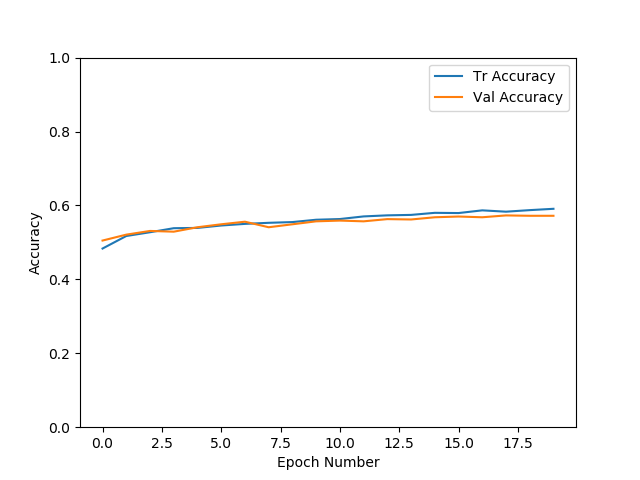
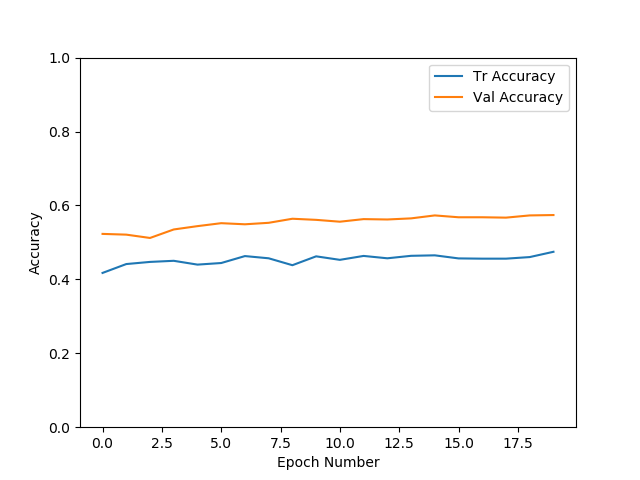
cnn

Changed region(s): [[0.1562, 0.4062, 0.875, 0.5312], [0.1875, 0.5312, 0.8438, 0.5625], [0.8438, 0.5, 0.875, 0.5312]]

diff --git a/pattern-recognition-2019/ex5/code/ex5_NN_3_Images.py b/pattern-recognition-2019/ex5/code/ex5_NN_3_Images.py
@@ -106,20 +106,26 @@ def train_and_validate(myModel, criterion, optimizer, epochs=25):
         valid_acc = 0.0
         for i, (inputs, labels) in enumerate(train_data_loader):
             optimizer.zero_grad()
-            outputs = myModel(inputs.view(-1, inputs.size(0)))
+            if myModel.type == 'cnn':
+                outputs = myModel(inputs)
+            else:
+                outputs = myModel(inputs.view(-1, inputs.size(0)))
             loss = criterion(outputs, labels)
             loss.backward()
             optimizer.step()
             train_loss += loss.item() * inputs.size(0)
             ret, predictions = torch.max(outputs.data, 1)
-            correct_counts = predictions.eq(labels.data.view_as(predictions))
+            correct_counts = predictions[0].eq(labels.data.view_as(predictions))
             acc = torch.mean(correct_counts.type(torch.FloatTensor))
             train_acc += acc.item() * inputs.size(0)
             print("Batch number: {:03d}, Training: Loss: {:.4f}, Accuracy: {:.4f}".format(i, loss.item(), acc.item()))
         with torch.no_grad():
             myModel.eval()
             for j, (inputs, labels) in enumerate(valid_data_loader):
-                outputs = myModel(inputs.view(-1, inputs.size(0)))
+                if myModel.type == 'cnn':
+                    outputs = myModel(inputs)
+                else:
+                    outputs = myModel(inputs.view(-1, inputs.size(0)))
                 loss = criterion(outputs, labels)
                 valid_loss += loss.item() * inputs.size(0)
                 ret, predictions = torch.max(outputs.data, 1)
@@ -151,9 +157,8 @@ def logreg_train_test():
     writeHistoryPlots(logRegHistory, 'logRegModel', 'output/')
 
 
-if __name__ == '__main__':
-    #logreg_train_test()
-
+def fully_connected_train_test():
+    global criterion, optimizer
     # TODO: train and test the fully connected DNN
     print('##########################')
     print('Testing Deep Neural Net')
@@ -163,12 +168,22 @@ if __name__ == '__main__':
     finalDNNmodel, dnnHistory = train_and_validate(dnnModel, criterion, optimizer, epochs=20)
     writeHistoryPlots(dnnHistory, 'dnnModel', 'output/')
 
+
+def cnn_train_test():
+    global criterion, optimizer
     # TODO: train and test a CNN
     print('##########################')
     print('Testing Convolutional Neural Net')
     cnnModel = MyCNN()
-    criterion = torch.nn.NLLLoss()  # Cost function - torch.nn.XXX loss functions
-    optimizer = torch.optim.Adam(cnnModel.parameters())   # Optimizer algorithm - torch.optim.XXX function
-
+    criterion = torch.nn.CrossEntropyLoss()  # Cost function - torch.nn.XXX loss functions
+    optimizer = torch.optim.Adam(cnnModel.parameters())  # Optimizer algorithm - torch.optim.XXX function
     finalCNNmodel, cnnHistory = train_and_validate(cnnModel, criterion, optimizer, epochs=20)
     writeHistoryPlots(cnnHistory, 'cnnModel', 'output/')
+
+
+if __name__ == '__main__':
+    logreg_train_test()
+
+    fully_connected_train_test()
+
+    cnn_train_test()

diff --git a/pattern-recognition-2019/ex5/code/myImageNN.py b/pattern-recognition-2019/ex5/code/myImageNN.py
@@ -7,6 +7,7 @@ class MyLogRegNN(torch.nn.Module):
         super(MyLogRegNN, self).__init__()
         # TODO: Define a logistic regression classifier as a neural network
         self.logReg = torch.nn.Linear(3072, 32)
+        self.type = 'logreg'
     def forward(self, x):
         y_hat = torch.sigmoid(self.logReg(x.view(-1, x.shape[0])))
         return y_hat
@@ -21,6 +22,7 @@ class MyFullyConnectedNN(torch.nn.Module):
           torch.nn.ReLU(),
           torch.nn.Linear(1024, 32),
         )
+        self.type = 'fullyConnected'
 
     def forward(self, x):
         y_hat = self.model(x.view(-1, x.shape[0]))
@@ -31,9 +33,13 @@ class MyCNN(torch.nn.Module):
 
     def __init__(self):
         super(MyCNN, self).__init__()
-        self.model = torch.nn.Conv2d(3, 6, 3, stride=2)
         # TODO: Define a convolutional neural network
+        self.model = torch.nn.Sequential(
+            torch.nn.Conv2d(3, 18, kernel_size=3, stride=1, padding=1),
+            torch.nn.BatchNorm2d(18),
+            torch.nn.ReLU())
+        self.type = 'cnn'
 
     def forward(self, x):
-        y_hat = None
-        return y_hat
+        y_hat = self.model(x)
+        return y_hat.reshape(y_hat.size(0), -1)
